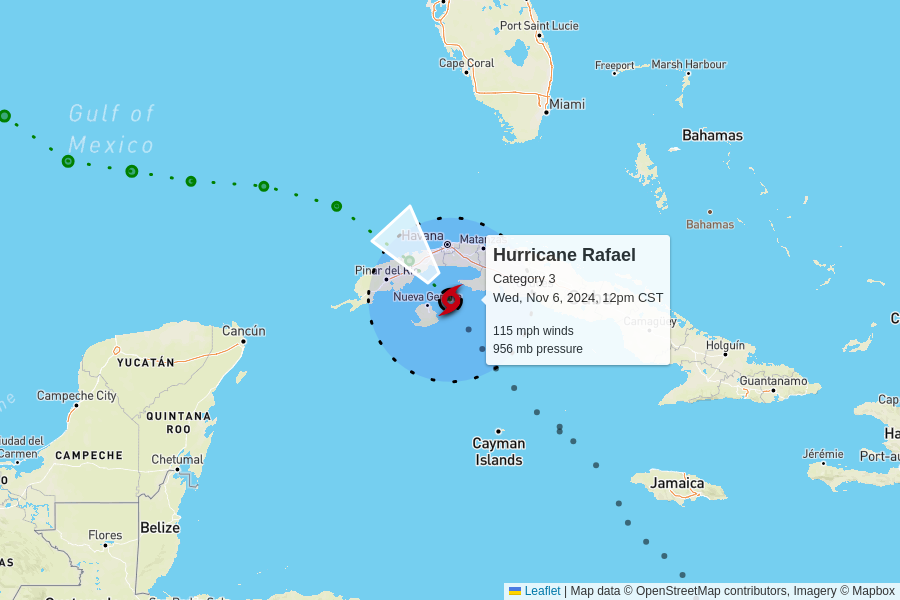
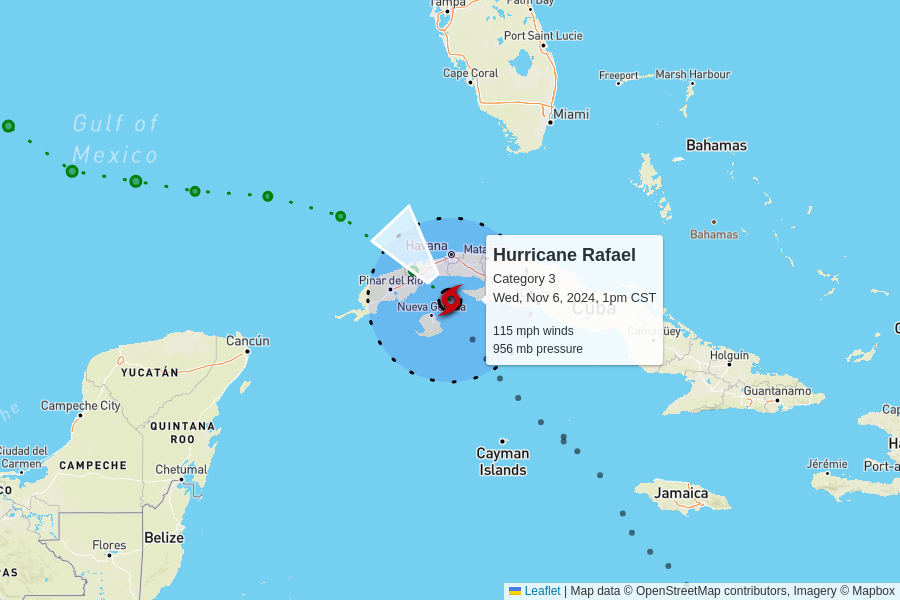
automatic update

diff --git a/docs/index.html b/docs/index.html
@@ -102,7 +102,7 @@
         <td colspan="6" class="storm category-3" >
           <h2>
             Hurricane Rafael - Category 3
-            <p class="updated">last updated <span data-time>2024-11-06T18:00:00.000Z</span></p>
+            <p class="updated">last updated <span data-time>2024-11-06T19:00:00.000Z</span></p>
           </h2>
         </td>
       </tr>
@@ -117,8 +117,8 @@
       </tr>
       <tr>
         <td class="spacer"></td>
-        <td>115 mph<br>+5 mph since last update</td>
-        <td>956 mb<br>-4 mb since last update</td>
+        <td>115 mph<br>0 mph since last update</td>
+        <td>956 mb<br>0 mb since last update</td>
         <td>
           14 mph to the northwest
           <br/>
